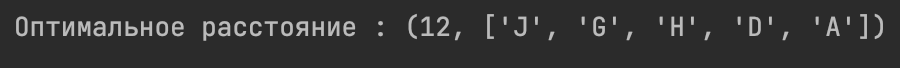
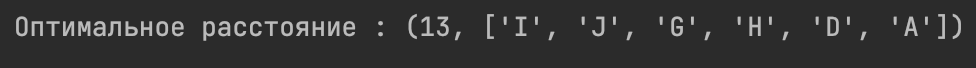
last_commit

Changed region(s): [[0.0, 0.2059, 0.9956, 0.5882]]

diff --git a/main.py b/main.py
@@ -43,7 +43,7 @@ graph = {
 }
 
 
-distance = dijkstra(graph, 'J', 'A')
+distance = dijkstra(graph, 'I', 'A')
 print('Оптимальное расстояние :', distance)
 
 

diff --git a/README.md b/README.md
@@ -39,7 +39,13 @@
 
 Решим задачу через скрипт:
 
-![Фото задания](/img/ph6.png "")
+![Фото работы скрипта](/img/ph6.png "")
+
+Ну и в конце проверим работу скрипты, повторим алгоритмы ручками.
+
+![Фото ручного решения](/img/ph7.png "")
+
+Всё сошлось!
 
 
 
